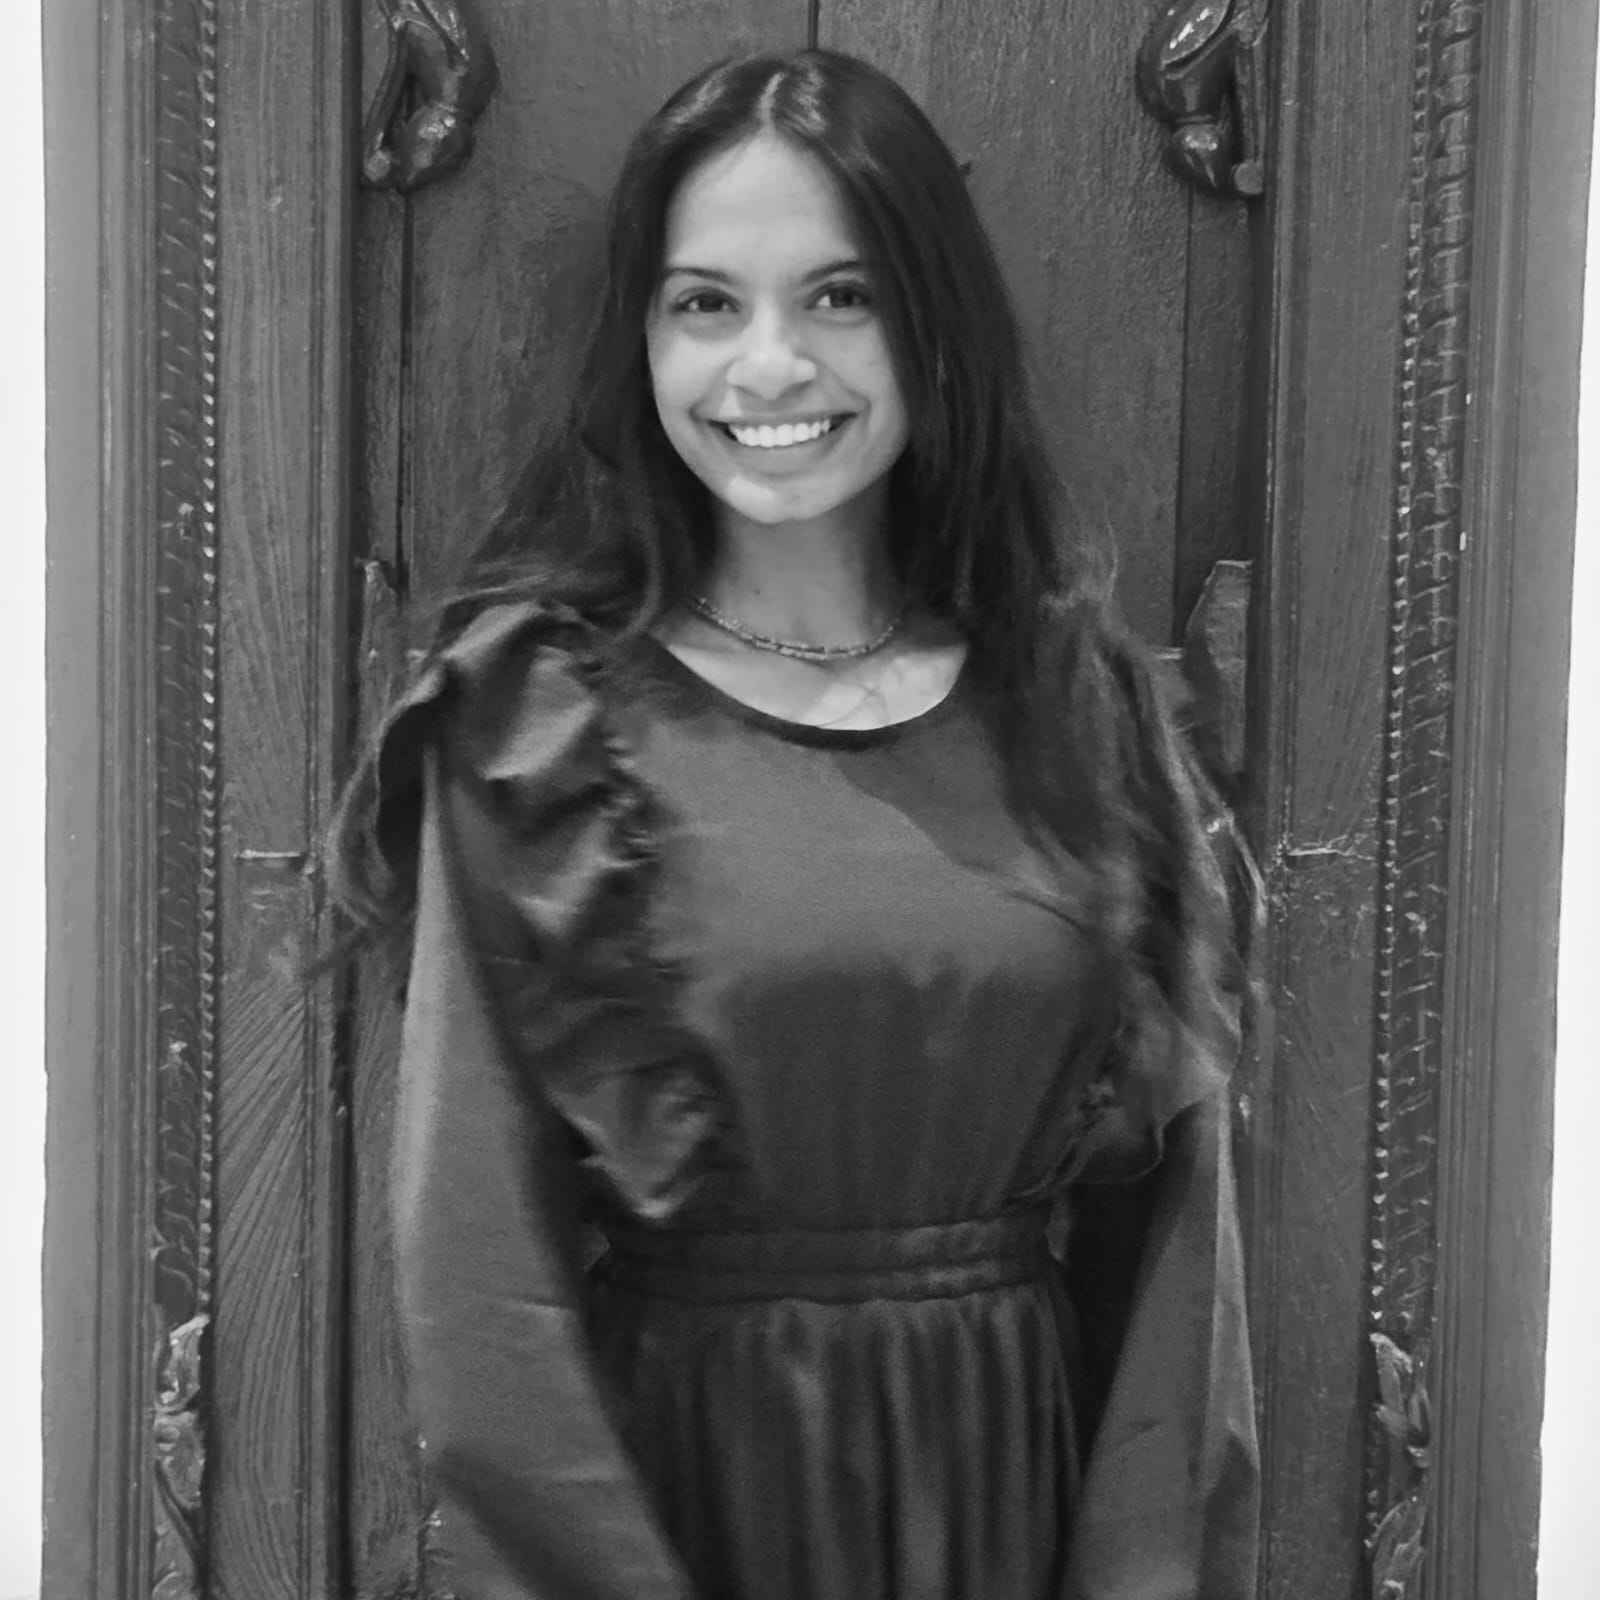
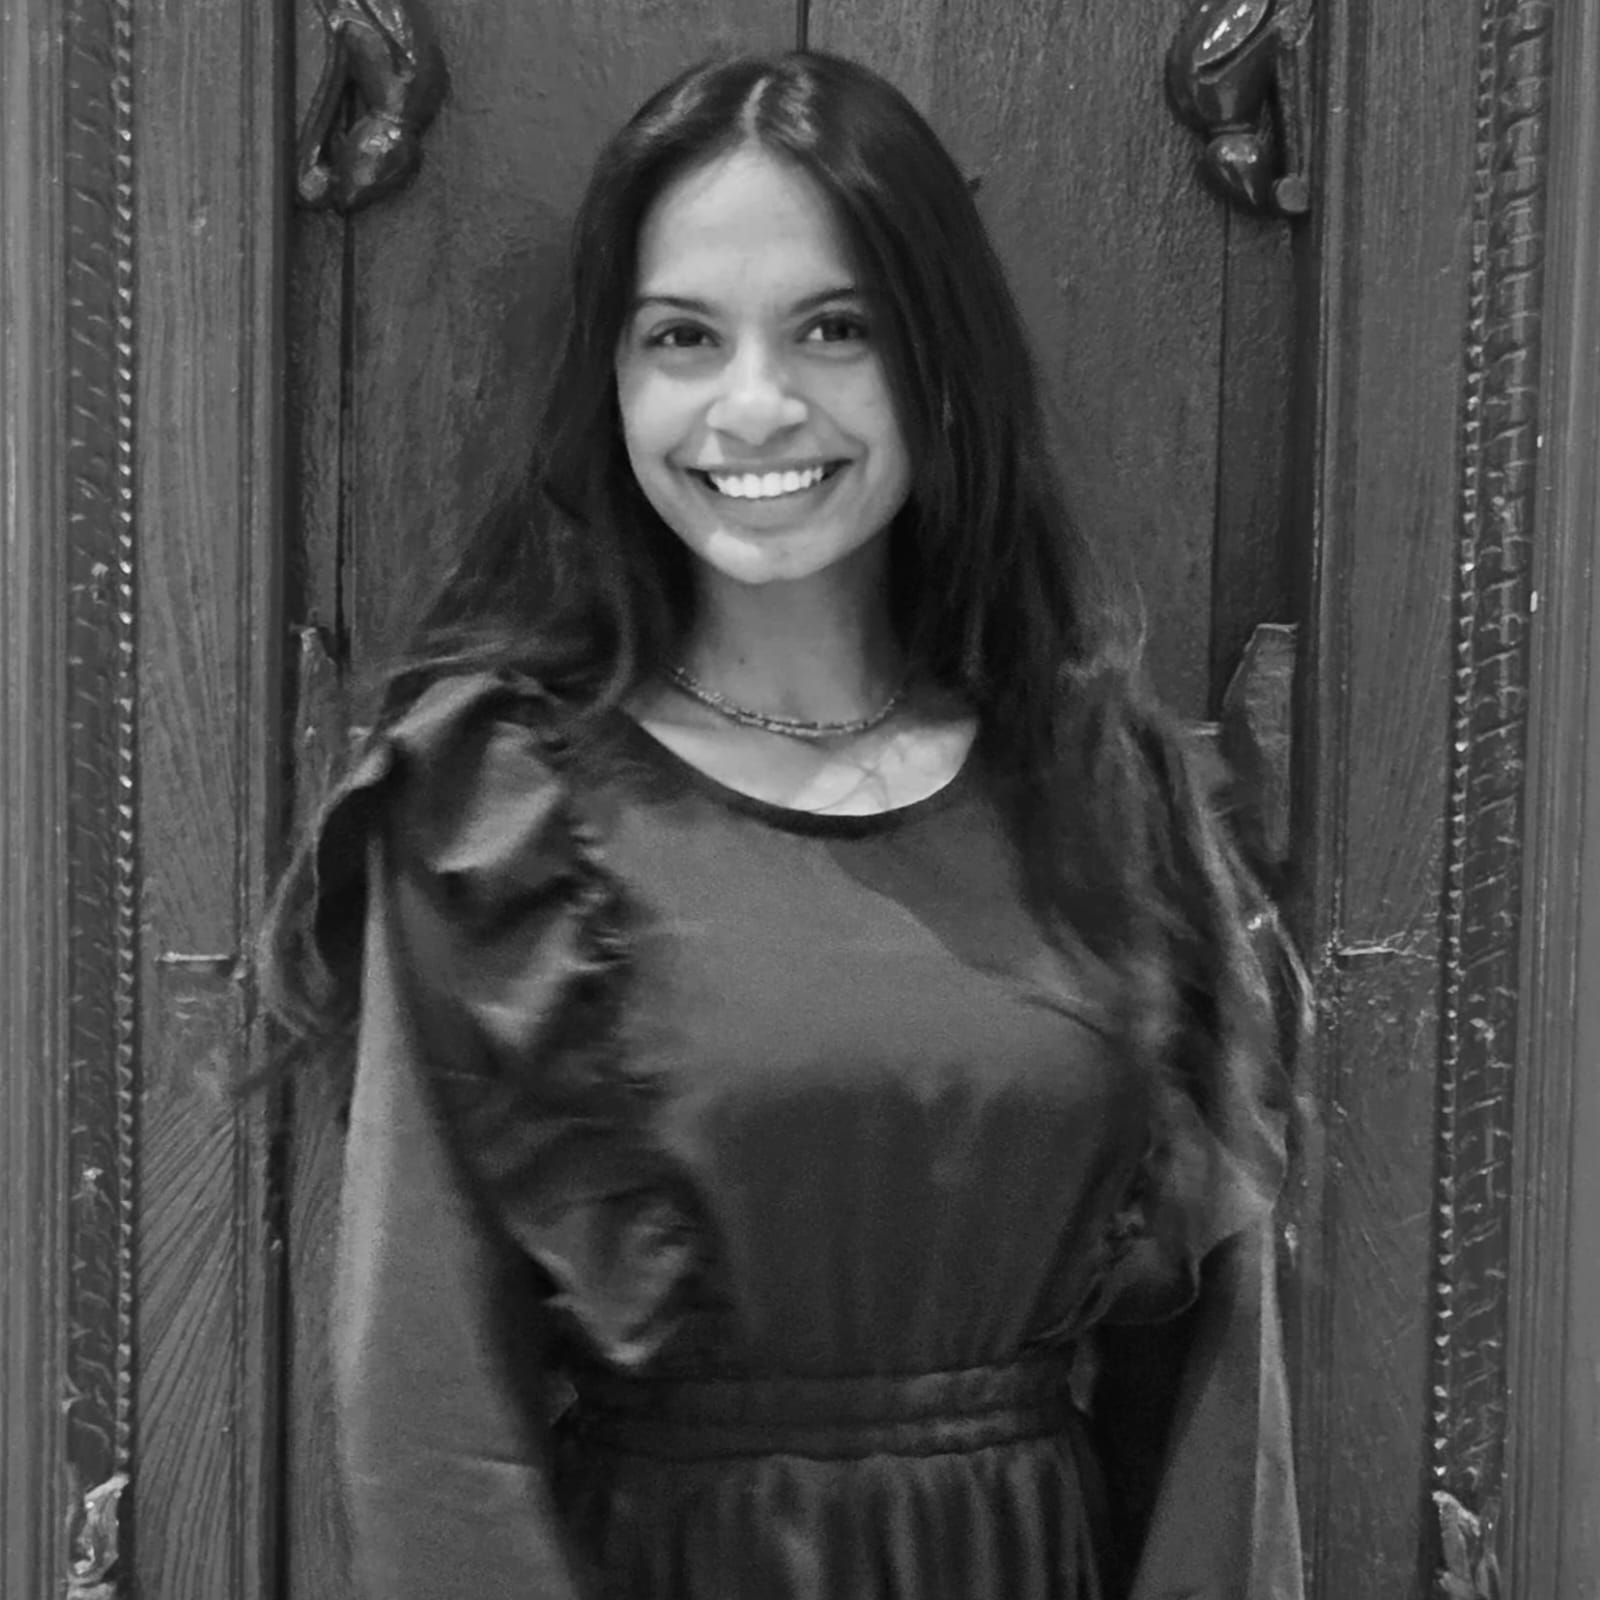
Fix Framer Motion TypeScript type error - use cubic-bezier easing

diff --git a/app/page.tsx b/app/page.tsx
@@ -56,7 +56,11 @@ export default function Home() {
     initial: { opacity: 0, y: 60 },
     animate: {
       opacity: 1,
-      y: 0
+      y: 0,
+      transition: {
+        duration: 0.6,
+        ease: [0.4, 0, 0.2, 1]
+      }
     }
   }
 
@@ -270,7 +274,6 @@ export default function Home() {
           >
             <motion.h2 
               variants={fadeInUp}
-              transition={{ duration: 0.6, ease: "easeOut" }}
               className="text-2xl sm:text-3xl md:text-4xl lg:text-5xl font-bold mb-8 sm:mb-10 md:mb-12 text-center"
             >
               About
@@ -334,7 +337,6 @@ export default function Home() {
           >
             <motion.h2 
               variants={fadeInUp}
-              transition={{ duration: 0.6, ease: "easeOut" }}
               className="text-2xl sm:text-3xl md:text-4xl lg:text-5xl font-bold mb-8 sm:mb-10 md:mb-12 text-center"
             >
               Skills
@@ -368,7 +370,6 @@ export default function Home() {
           >
             <motion.h2 
               variants={fadeInUp}
-              transition={{ duration: 0.6, ease: "easeOut" }}
               className="text-2xl sm:text-3xl md:text-4xl lg:text-5xl font-bold mb-8 sm:mb-10 md:mb-12 text-center"
             >
               Projects
@@ -435,7 +436,6 @@ export default function Home() {
           >
             <motion.h2
               variants={fadeInUp}
-              transition={{ duration: 0.6, ease: "easeOut" }}
               className="text-2xl sm:text-3xl md:text-4xl lg:text-5xl font-bold mb-8 sm:mb-10 md:mb-12 text-center"
             >
               Hackathons
@@ -570,7 +570,6 @@ export default function Home() {
           >
             <motion.h2 
               variants={fadeInUp}
-              transition={{ duration: 0.6, ease: "easeOut" }}
               className="text-2xl sm:text-3xl md:text-4xl lg:text-5xl font-bold mb-8 sm:mb-10 md:mb-12 text-center"
             >
               Certificates
@@ -854,7 +853,6 @@ export default function Home() {
           >
             <motion.h2 
               variants={fadeInUp}
-              transition={{ duration: 0.6, ease: "easeOut" }}
               className="text-2xl sm:text-3xl md:text-4xl lg:text-5xl font-bold mb-4 text-center"
             >
               Get In Touch
